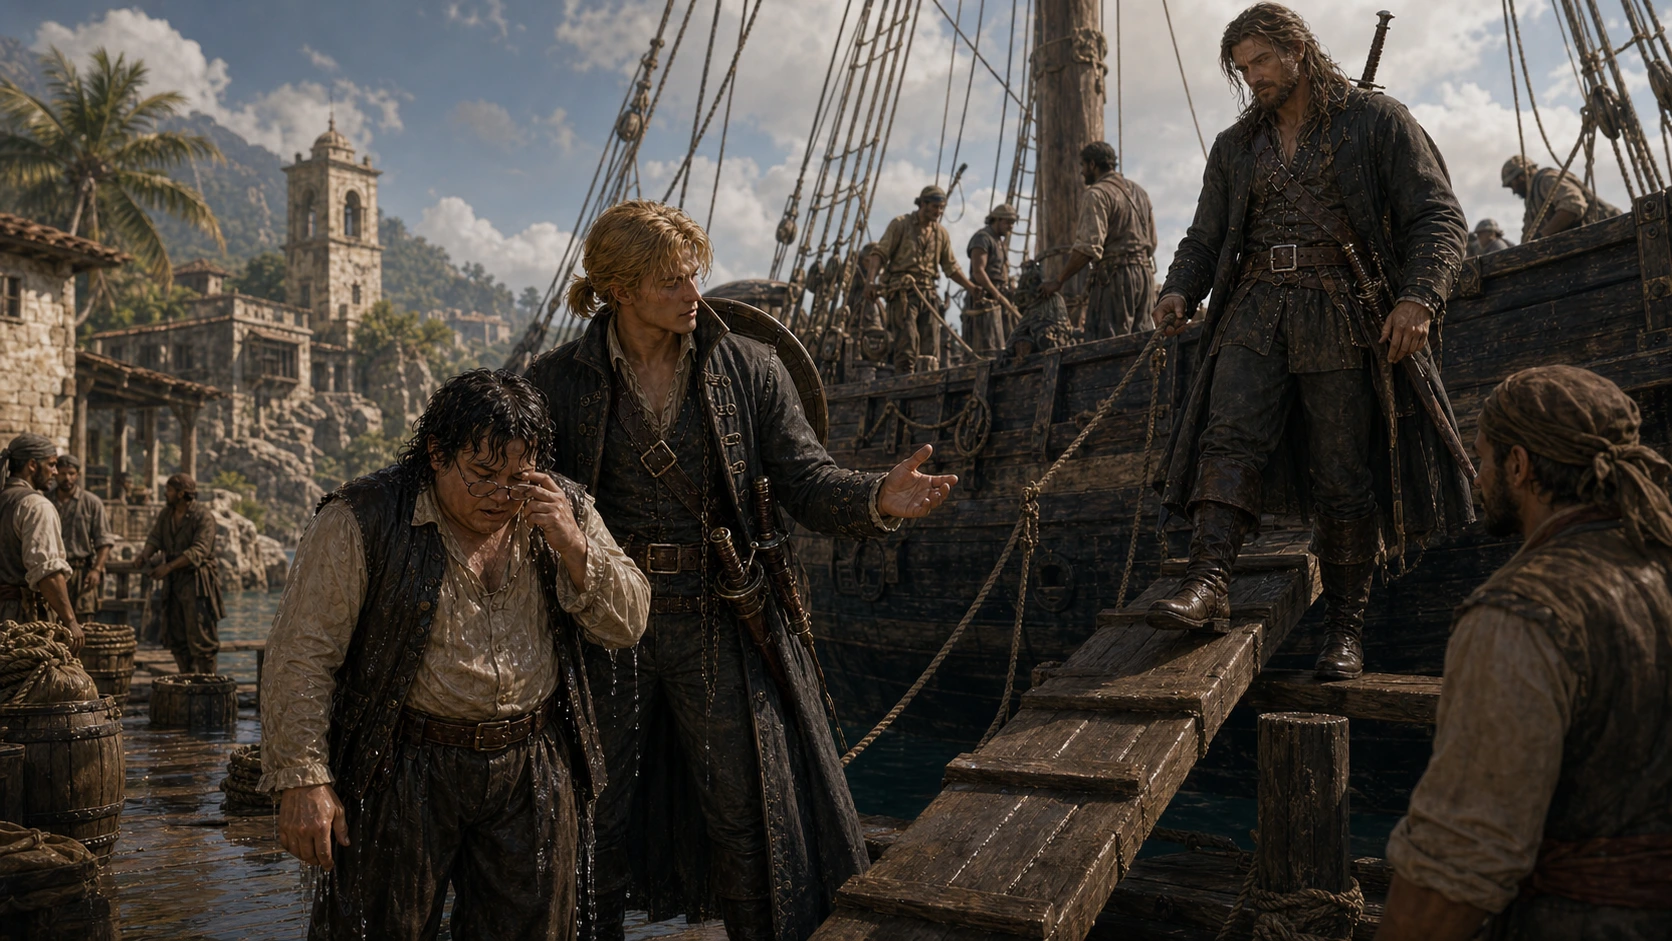
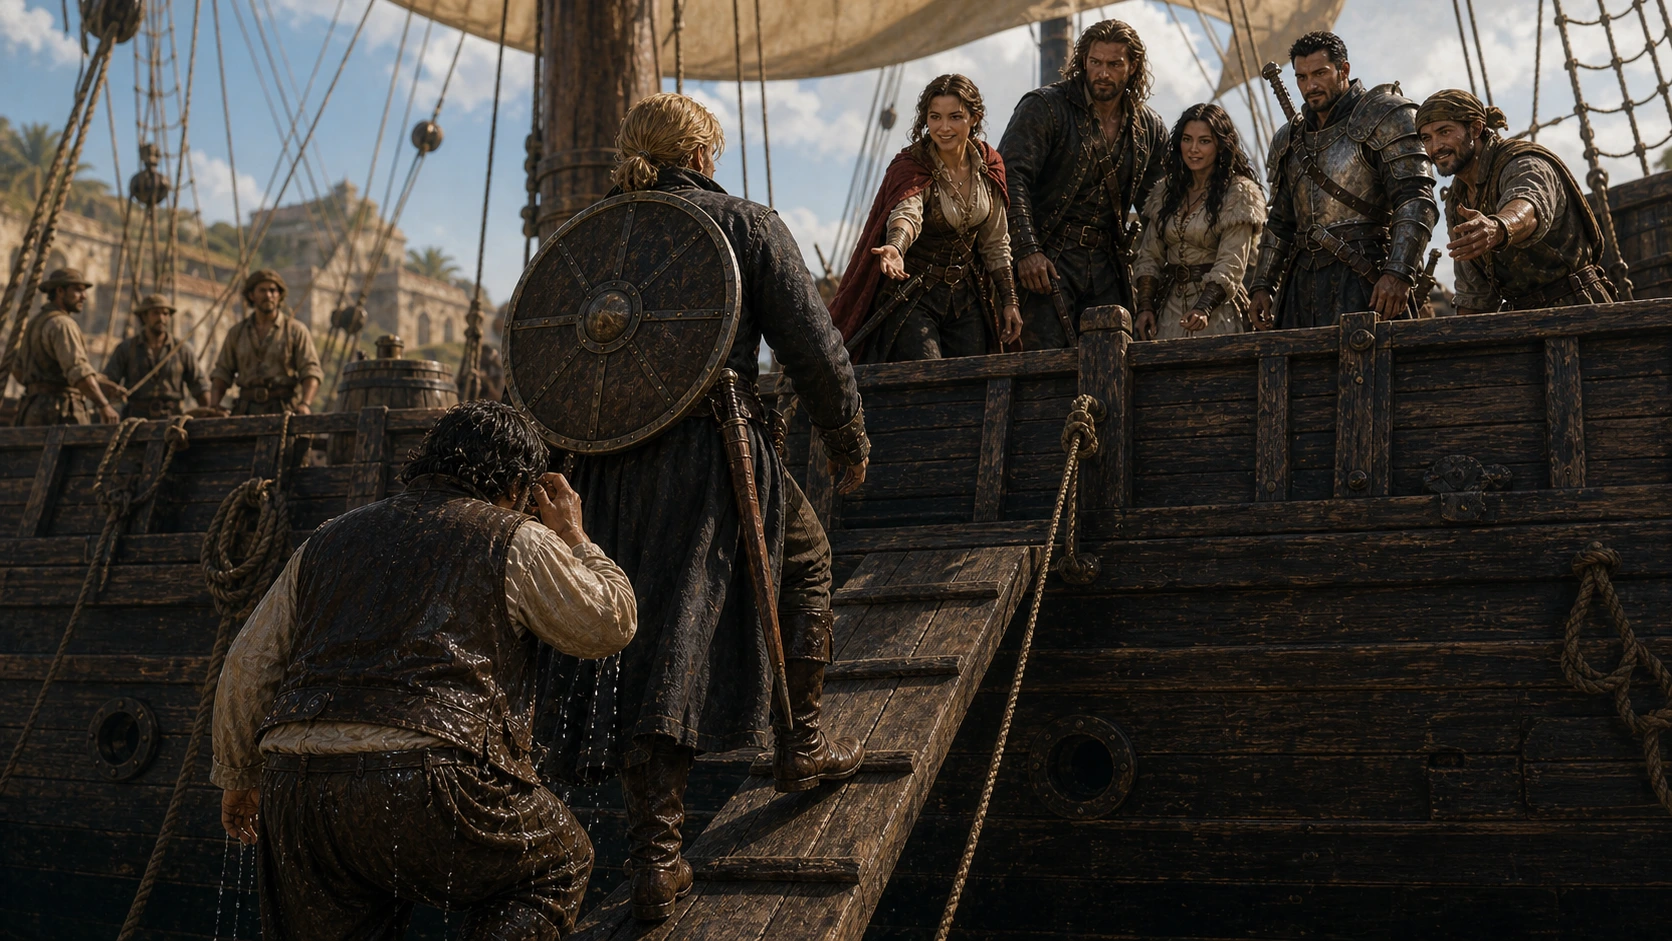
Updated last figure act 26

diff --git a/diari/capitol05/acte26/acte26.md b/diari/capitol05/acte26/acte26.md
@@ -7,7 +7,7 @@ label: Acte XXVI
 order: 26
 ---
 
-El trajecte començà amb una normalitat gairebé sospitosa. Durant tres nits navegàrem sense més sobresalts que el cruixir de la fusta, el gemec de les cordes i aquella conversa constant entre el mar i el casc que, al principi, sembla música i, al cap d’unes hores, ja és simplement part del pensament. La Gavina Coqueta avançava amb dignitat modesta, i nosaltres començàvem a acostumar-nos a la idea que, potser, per una vegada, el camí cap al perill no havia de ser ell mateix un perill.
+El trajecte avançava amb una normalitat gairebé sospitosa. Durant tres nits navegàrem sense més sobresalts que el cruixir de la fusta, el gemec de les cordes i aquella conversa constant entre el mar i el casc que, al principi, sembla música i, al cap d’unes hores, ja és simplement part del pensament. La Gavina Coqueta avançava amb dignitat modesta, i nosaltres començàvem a acostumar-nos a la idea que, potser, per una vegada, el camí cap al perill no havia de ser ell mateix un perill.
 
 La primera escala fou en una illa intermèdia, situada encara dins la ruta cap a la nostra destinació final. Hi baixàrem per carregar provisions i completar allò que el vaixell, per mida i prudència, no havia pogut dur en excés des de Valdeluna. L’indret no tenia res d’extraordinari a primer cop d’ull: un petit port, gent avesada a veure cares de pas i aquella olor barreja de sal, fruita madura i fusta humida que tenen les illes quan encara no han decidit si volen ser refugi o trampa.
 